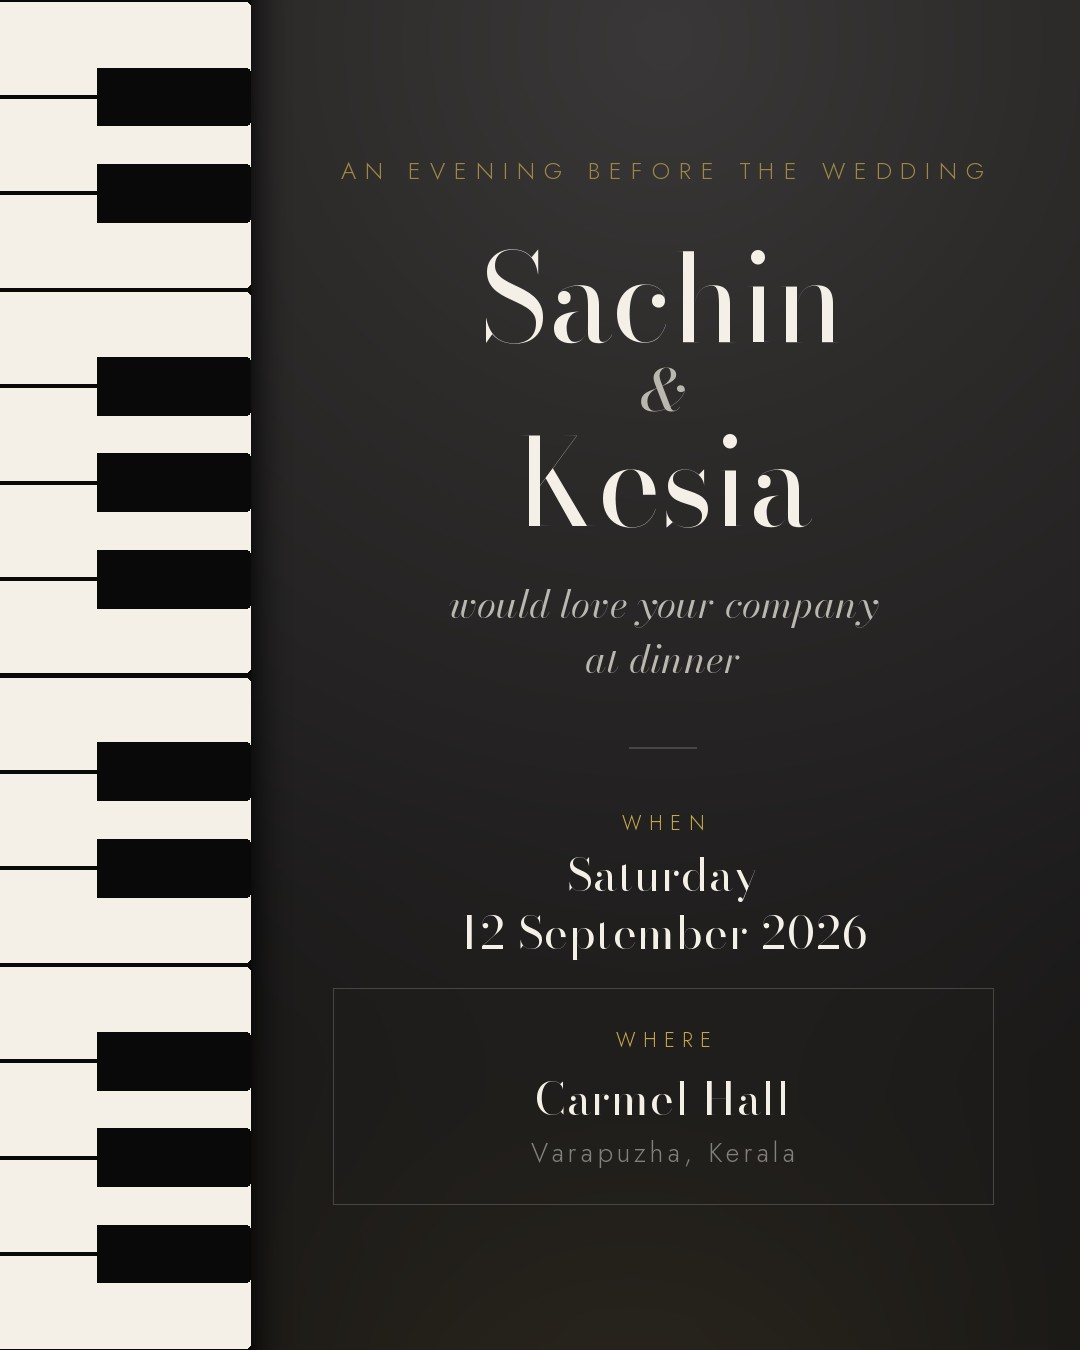
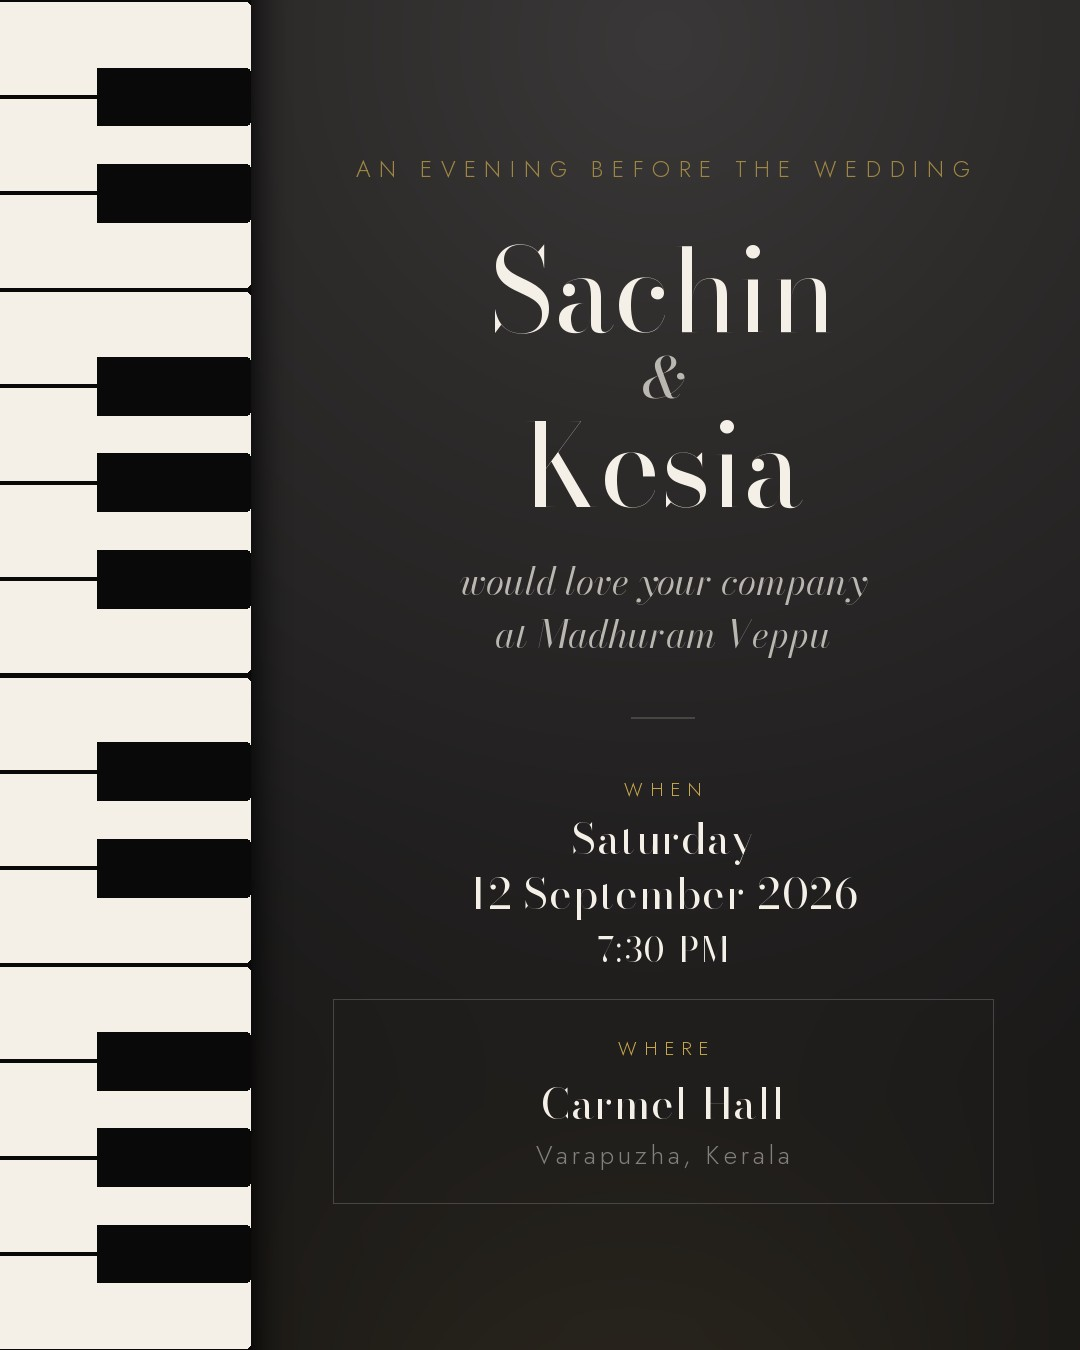
feat: add 7:30 PM to the invitation, the title and the share image
The hour gets its own `time` field rather than a third entry in `when`, so
it can be styled apart from the date and dropped by setting it to "".
It renders in the date's own face and colour a step down in size, which
puts three levels in the When block: gold label, ivory date, ivory hour.

Wired into the places a new content line has to be known about: both
keys-open hide lists, so it goes away with the date when the keyboard
takes the card over, and the reveal ladder at .52s with Where and RSVP
shifted back behind it.

make_og.py had drifted off the page's wording again — it still read
"at dinner" after the page moved to "at Madhuram Veppu", so the share
preview was showing older copy than the page. Synced, and the hour added
to og:description as well as to the image, so it reaches the preview
whether or not the image loads.

og:title is left alone: it still says "Dinner" where the page title says
"Madhuram Veppu", which may well be deliberate.

diff --git a/dinner.html b/dinner.html
@@ -3,8 +3,8 @@
 <head>
 <meta charset="utf-8">
 <meta name="viewport" content="width=device-width, initial-scale=1">
-<title>Sachin &amp; Kesia — Madhuram Veppu, 12 September 2026</title>
-<meta name="description" content="Carmel Hall, Varapuzha. Saturday, 12 September 2026.">
+<title>Sachin &amp; Kesia — Madhuram Veppu, 12 September 2026, 7:30 PM</title>
+<meta name="description" content="Carmel Hall, Varapuzha. Saturday, 12 September 2026, 7:30 PM.">
 
 <!-- ============================================================
      WHATSAPP / OPEN GRAPH PREVIEW  —  READ THIS ONE THING
@@ -29,7 +29,7 @@
 <meta property="og:type"             content="website">
 <meta property="og:site_name"        content="Sachin &amp; Kesia">
 <meta property="og:title"            content="Sachin &amp; Kesia — Dinner">
-<meta property="og:description"      content="Carmel Hall, Varapuzha. Saturday, 12 September 2026.">
+<meta property="og:description"      content="Carmel Hall, Varapuzha. Saturday, 12 September 2026, 7:30 PM.">
 <meta property="og:url"              content="https://sachinsebastian1212.github.io/wed/dinner.html">
 <meta property="og:image"            content="https://sachinsebastian1212.github.io/wed/og-dinner.jpg">
 <meta property="og:image:secure_url" content="https://sachinsebastian1212.github.io/wed/og-dinner.jpg">
@@ -351,6 +351,7 @@ body.keys-open .expand .bar{opacity:1;transform:translateX(0)}
   body.keys-open .rule,
   body.keys-open .label,
   body.keys-open .when,
+  body.keys-open .when-time,
   body.keys-open .where,
   body.keys-open .rsvp{display:none}
   body.keys-open .names{
@@ -368,6 +369,7 @@ body.keys-open .expand .bar{opacity:1;transform:translateX(0)}
   body.keys-open .rule,
   body.keys-open .label,
   body.keys-open .when,
+  body.keys-open .when-time,
   body.keys-open .where,
   body.keys-open .rsvp{display:none}
 
@@ -503,6 +505,17 @@ body.keys-open .expand .bar{opacity:1;transform:translateX(0)}
   font-size:clamp(1.12rem,4.4vw,1.6rem);
   letter-spacing:.01em;
   line-height:1.3;
+}
+
+/* Still the date's face and colour, so it carries — a step down in size is
+   all that separates the hour from the day. */
+.when-time{
+  margin-top:9px;
+  font-family:var(--display);
+  font-size:clamp(.95rem,3.6vw,1.3rem);
+  letter-spacing:.04em;
+  line-height:1.3;
+  color:var(--ivory);
 }
 
 /* ============ where ============ */
@@ -752,8 +765,9 @@ body.revealed .invite        {animation-delay:.3s}
 body.revealed .rule          {animation-delay:.38s}
 body.revealed .inner > .label{animation-delay:.44s}
 body.revealed .when          {animation-delay:.48s}
-body.revealed .where         {animation-delay:.52s}
-body.revealed .rsvp          {animation-delay:.58s}
+body.revealed .when-time     {animation-delay:.52s}
+body.revealed .where         {animation-delay:.56s}
+body.revealed .rsvp          {animation-delay:.62s}
 
 /* Sits where the stop button will later sit, and says the piano is still
    arriving — so a tap that sounds thin is explained rather than puzzling. */
@@ -980,6 +994,7 @@ body.playing-on .eq i:nth-child(5){animation-duration:1.4s;animation-delay:-.72s
 
       <p class="label">When</p>
       <p class="when" id="when"></p>
+      <p class="when-time" id="whenTime"></p>
 
       <a class="where" id="where" draggable="false">
         <p class="label">Where</p>
@@ -1011,6 +1026,7 @@ const DINNER = {
   invite:     ["would love your company", "at Madhuram Veppu"],
 
   when:       ["Saturday", "12 September 2026"],
+  time:       "7:30 PM",             // leave "" to drop the line
 
   // --- venue ---
   venueName:  "Carmel Hall",
@@ -1031,6 +1047,7 @@ $("groom").textContent = DINNER.groom;
 $("bride").textContent = DINNER.bride;
 $("invite").innerHTML = lines(DINNER.invite);
 $("when").innerHTML = lines(DINNER.when);
+if (DINNER.time) $("whenTime").textContent = DINNER.time;
 
 if (DINNER.rsvp) {
   $("rsvp").innerHTML = 'RSVP <a href="tel:' + DINNER.rsvp.replace(/\s/g, "") + '">' +

diff --git a/make_og.py b/make_og.py
@@ -16,8 +16,9 @@ CONFIG = {
     "eyebrow":     "AN EVENING BEFORE THE WEDDING",
     "groom":       "Sachin",
     "bride":       "Kesia",
-    "invite":      ["would love your company", "at dinner"],
+    "invite":      ["would love your company", "at Madhuram Veppu"],
     "when":        ["Saturday", "12 September 2026"],
+    "time":        "7:30 PM",
 
     "venue_name":  "Carmel Hall",
     "venue_lines": ["Varapuzha, Kerala"],
@@ -195,6 +196,10 @@ def compose(d, k):
     for line in C["when"]:
         f = fit(d, line, lambda s: bodoni(s, 400, 48), S(46), 1 * k, MAXW)
         add(58, lambda y, l=line, f=f: tracked(d, y, l, f, 1 * k, LINEN))
+    if C.get("time"):
+        gap(6, 0.0)
+        f = fit(d, C["time"], lambda s: bodoni(s, 400, 48), S(37), 2 * k, MAXW)
+        add(50, lambda y, f=f: tracked(d, y, C["time"], f, 2 * k, LINEN))
 
     if C["venue_name"]:
         gap(52, 1.2, "box-start")
